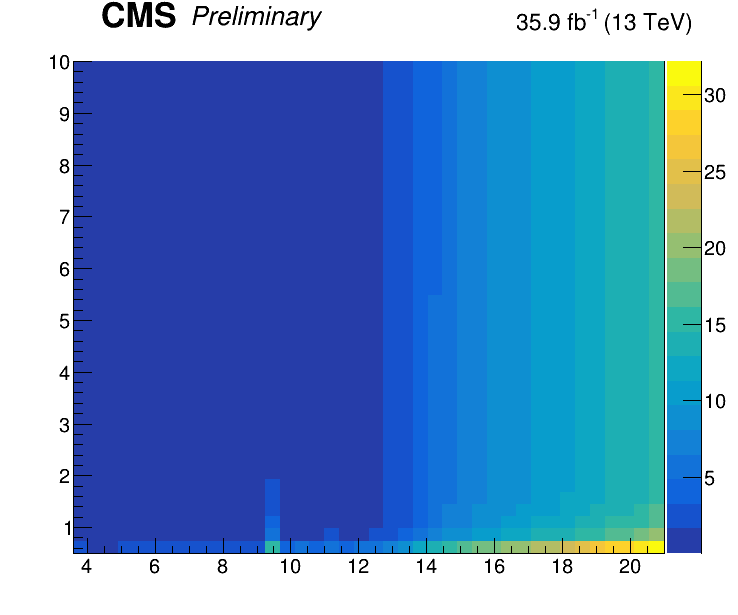
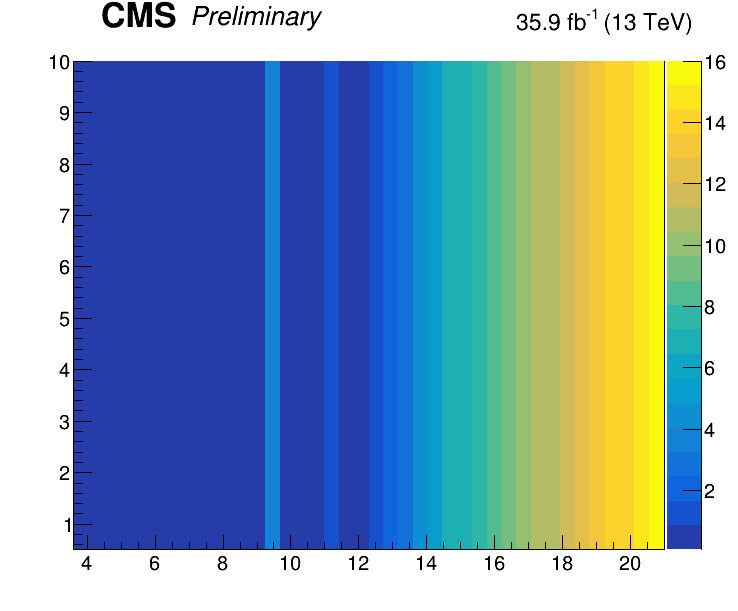
axes labeling added

diff --git a/model_dependent.py b/model_dependent.py
@@ -113,15 +113,19 @@ if __name__ == "__main__":
     y_mmtt_boosted_exp_total = np.repeat(y_mmtt_boosted_exp, len(brs))
 
     canv = ROOT.TCanvas("2HDM+S", "2HDM+S", 740, 640)
+    canv.SetRightMargin(0.16) 
 
 
     # Create graph for observed data
     graph_obs = ROOT.TGraph2D(len(x_mmtt_boosted_obs_total), x_mmtt_boosted_obs_total, tan_beta, z_obs_array)
-    graph_obs.SetTitle("")
-    graph_obs.GetXaxis().SetTitle("Mass")
-    graph_obs.GetYaxis().SetTitle("tan beta")
-    graph_obs.GetZaxis().SetTitle("BR")
+    graph_obs.SetTitle(";m_{A} [GeV];tan#beta;BR") 
+    #graph_obs.GetXaxis().SetTitle("m_{A} [GeV]")  # Set x-axis label as m_A with unit GeV
+    #graph_obs.GetYaxis().SetTitle("tan#beta")    # Set y-axis label as tan(beta)
+    #graph_obs.GetZaxis().SetTitle("BR")
     graph_obs.Draw("COLZ")
+    canv.Modified()
+    canv.Update()
+
     lumiBlurb1=add_CMS()
     lumiBlurb1.Draw("same")
     lumiBlurb2=add_Preliminary()
@@ -131,15 +135,18 @@ if __name__ == "__main__":
 	    lumiBlurb=add_lumi_runI()
     lumiBlurb.Draw("same")
     canv.Update() 
-    canv.SaveAs('3D_plot_BR_vs_Mass_vs_tanBeta_obs.png')
+    canv.SaveAs('3D_plot_BR_vs_Mass_vs_tanBeta_obs_model1.png')
 
     # Create graph for expected data
     graph_exp = ROOT.TGraph2D(len(x_mmtt_boosted_exp_total), x_mmtt_boosted_exp_total, tan_beta, z_exp_array)
-    graph_exp.SetTitle("")
-    graph_exp.GetXaxis().SetTitle("Mass")
-    graph_exp.GetYaxis().SetTitle("tan beta")
-    graph_exp.GetZaxis().SetTitle("BR")
+    graph_exp.SetTitle(";m_{A} [GeV];tan#beta; BR") 
+    #graph_exp.GetXaxis().SetTitle("m_{A} [GeV]")  # Se t x-axis label as m_A with unit GeV
+    #graph_exp.GetYaxis().SetTitle("tan#beta")    # Set y-axis label as tan(beta)
+    #graph_exp.GetZaxis().SetTitle("BR") 
     graph_exp.Draw("COLZ")
+    canv.Modified()
+    canv.Update()
+
     lumiBlurb1=add_CMS()
     lumiBlurb1.Draw("same")
     lumiBlurb2=add_Preliminary()
@@ -149,4 +156,4 @@ if __name__ == "__main__":
 	    lumiBlurb=add_lumi_runI()
     lumiBlurb.Draw("same")
     canv.Update() 
-    canv.SaveAs('3D_plot_BR_vs_Mass_vs_tanBeta_exp.png')
+    canv.SaveAs('3D_plot_BR_vs_Mass_vs_tanBeta_exp_model1.png')
